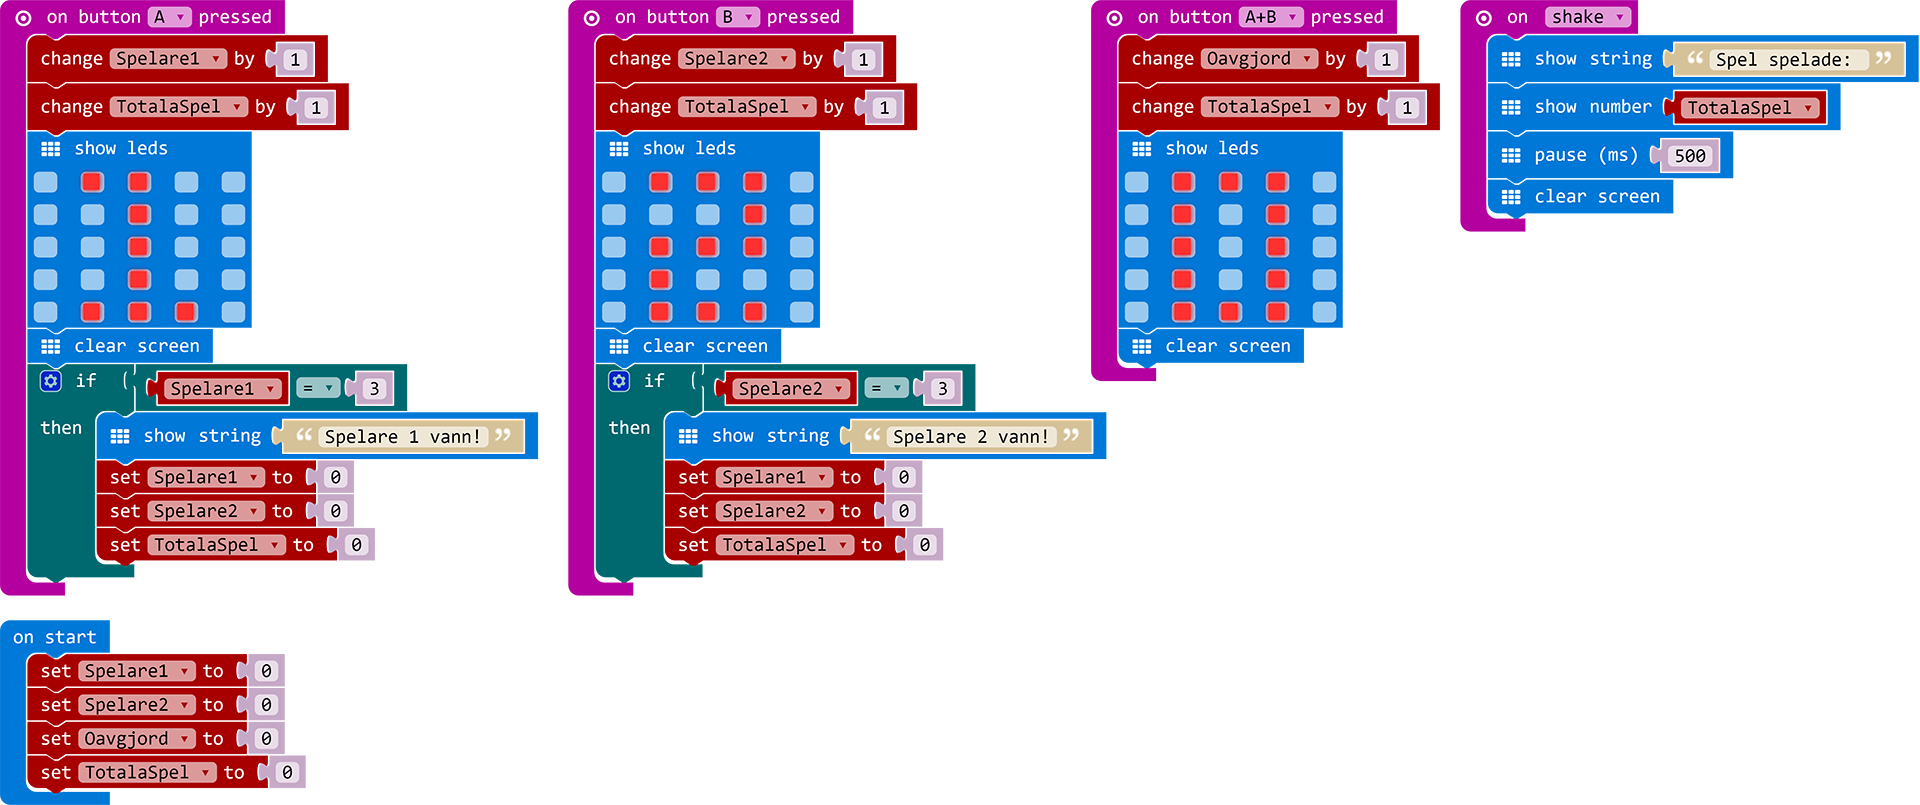
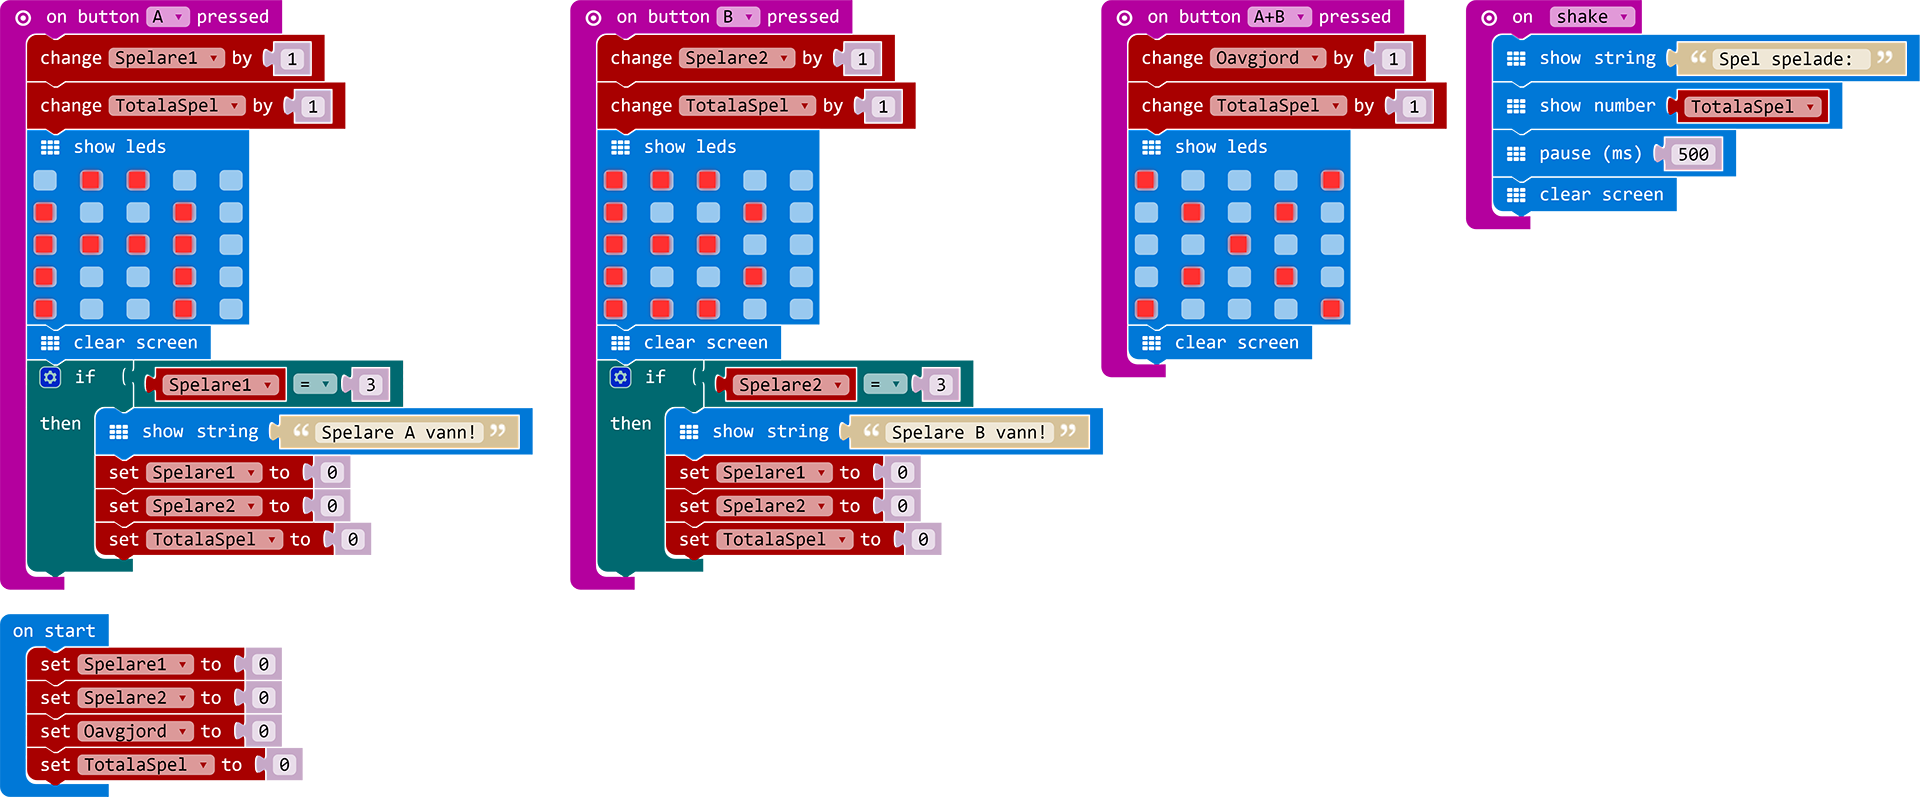
Update Sten, sax och påse (avancerad)

diff --git a/Facit/Lektion 3/Sten, sax och påse (avancerad)/_OLD/JavaScript.js b/Facit/Lektion 3/Sten, sax och påse (avancerad)/_OLD/JavaScript.js
@@ -8,15 +8,15 @@ input.onButtonPressed(Button.A, () => {
   TotalaSpel += 1;
   basic.showLeds(`
     . # # . .
-    # . . # .
-    # # # # .
-    # . . # .
-    # . . # .
+    . . # . .
+    . . # . .
+    . . # . .
+    . # # # .
   `);
   basic.clearScreen();
 
   if(Spelare1 == 3) {
-    basic.showString("Spelare A vann!");
+    basic.showString("Spelare 1 vann!");
     Spelare1 = 0;
     Spelare2 = 0;
     TotalaSpel = 0;
@@ -27,16 +27,16 @@ input.onButtonPressed(Button.B, () => {
   Spelare2 += 1;
   TotalaSpel += 1;
   basic.showLeds(`
-    # # # . .
-    # . . # .
-    # # # . .
-    # . . # .
-    # # # . .
+    . # # # .
+    . . . # .
+    . # # # .
+    . # . . .
+    . # # # .
   `);
   basic.clearScreen();
 
   if(Spelare2 == 3) {
-    basic.showString("Spelare B vann!");
+    basic.showString("Spelare 2 vann!");
     Spelare1 = 0;
     Spelare2 = 0;
     TotalaSpel = 0;
@@ -47,11 +47,11 @@ input.onButtonPressed(Button.AB, () => {
   Oavgjord += 1;
   TotalaSpel += 1;
   basic.showLeds(`
-    # . . . #
+    . # # # .
     . # . # .
-    . . # . .
     . # . # .
-    # . . . #
+    . # . # .
+    . # # # .
   `);
   basic.clearScreen();
 });
